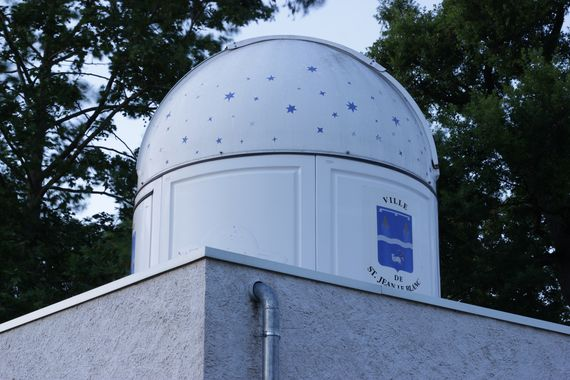
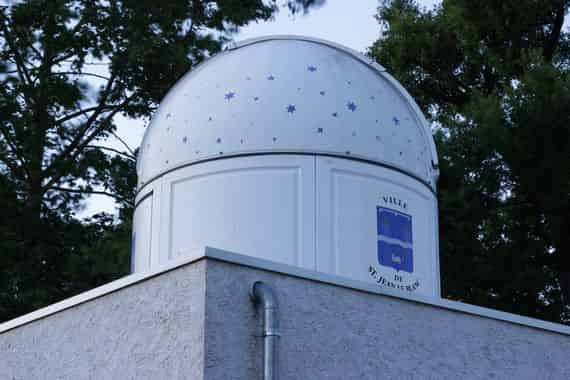
Reduce img size for speed

diff --git a/frontend/src/components/enter_point/enter_point.jsx b/frontend/src/components/enter_point/enter_point.jsx
@@ -6,7 +6,7 @@ import Observatoire from "@components/observatoire/observatoire";
 import Contact from "@components/contact/contact";
 import Events from "@components/events/events";
 import Image from "../../assets/logo/logo.png";
-import EnterPointImage from "../../assets/enter_point/enter_point_image.jpg";
+import EnterPointImage from "../../assets/enter_point/enter_point.jpg";
 
 export default function EnterPoint() {
   const navigate = useNavigate();

diff --git a/frontend/src/components/contact/contact.jsx b/frontend/src/components/contact/contact.jsx
@@ -3,7 +3,7 @@ import Leaflet from "leaflet";
 import { MapContainer, TileLayer, Marker, Popup } from "react-leaflet";
 import "./Leaflet.css";
 // import "./contact.css";
-import iconUrl from "../../assets/contact/marker.png";
+import iconUrl from "../../assets/contact/marker.webp";
 
 export default function Contact() {
   const position = [47.891346, 1.917617];
